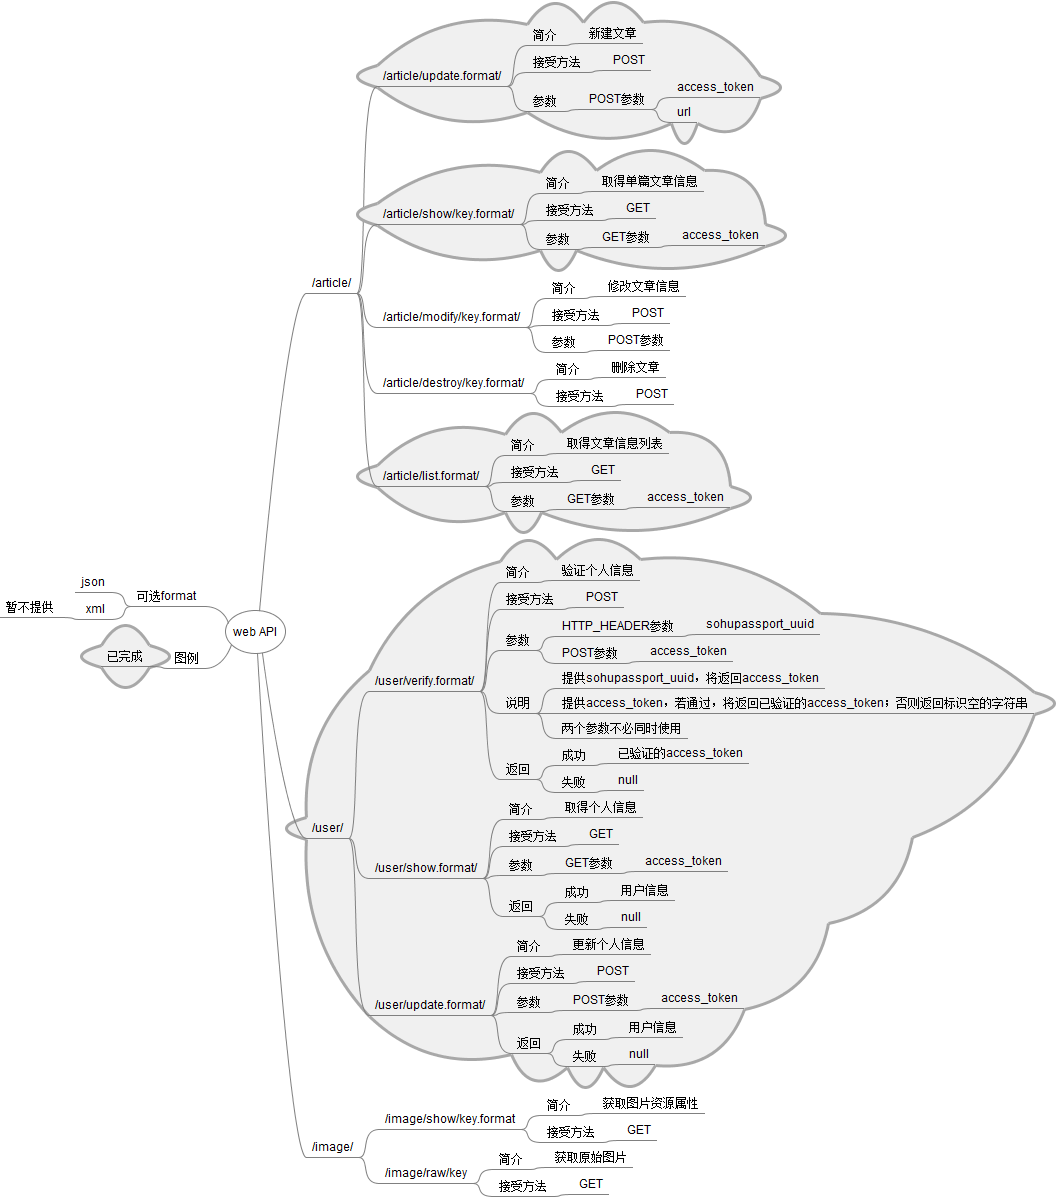
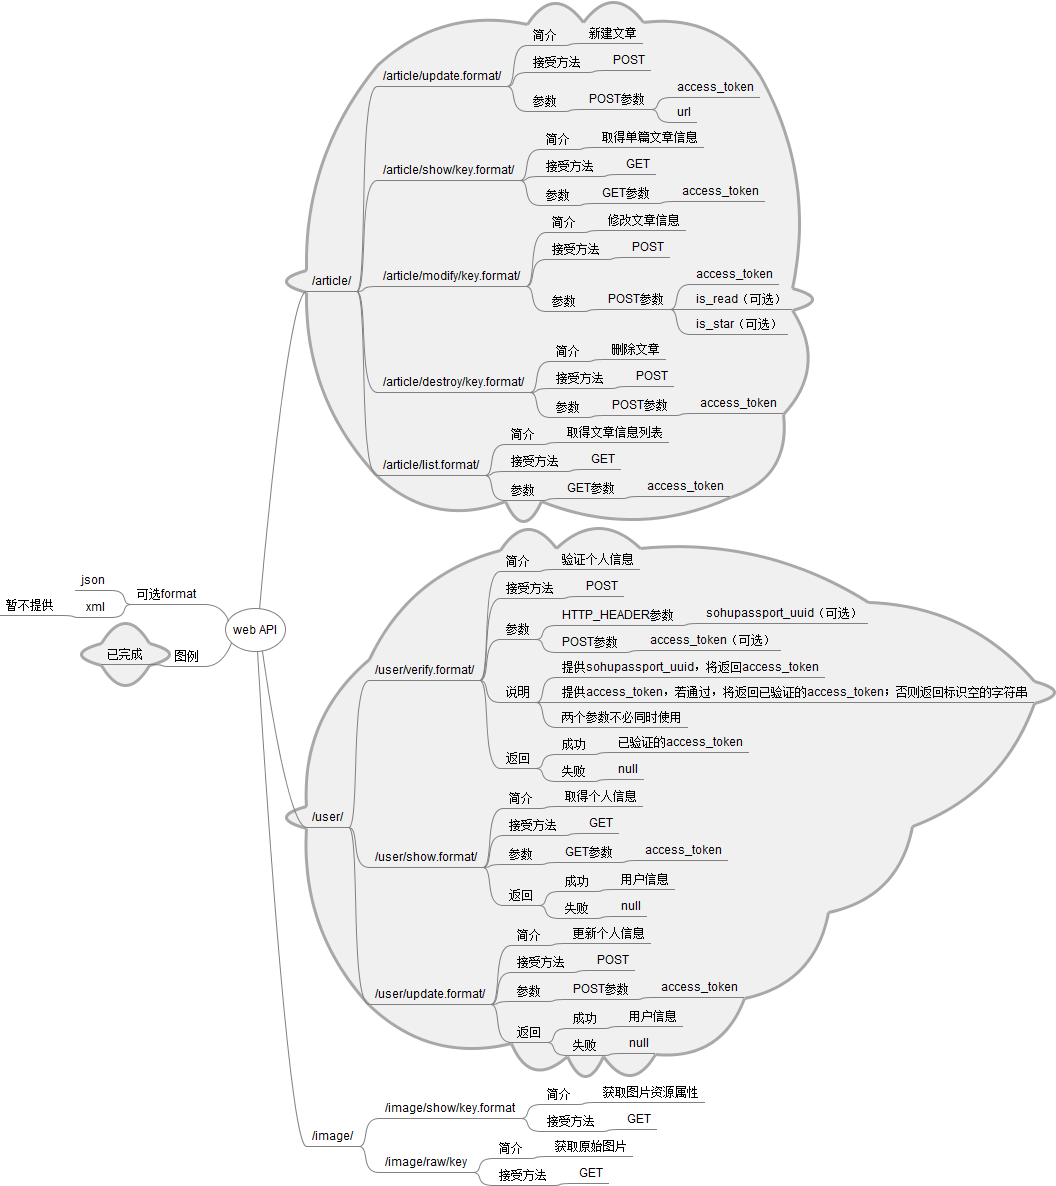
implement article/modify and article/destroy view, modify web_API.png

diff --git a/src/SohuPocketLib/article/helper.py b/src/SohuPocketLib/article/helper.py
@@ -9,6 +9,7 @@ from SohuPocketLib.user.helper import get_GET_dict, get_POST_dict
 from django.core.cache import cache
 from lxml import etree
 import hashlib
+import time
 
 
 def choose_a_db(user_id):
@@ -37,12 +38,13 @@ def create_myarticle_instance(user_id, key, title, url):
 def get_myarticle_instance(user_id, key):
     myarticle_instance = cache.get(key, None)
     if myarticle_instance is None:
+        chosen_db = choose_a_db(user_id)
         try:
-            chosen_db = choose_a_db(user_id)
             myarticle_instance = MyArticleInstance.objects.using(chosen_db).get(key=key)
-            cache.set(key, myarticle_instance)
         except MyArticleInstance.DoesNotExist:
             pass
+        else:
+            myarticle_instance.update_cache()
         
     return myarticle_instance  
 
@@ -60,14 +62,35 @@ def get_myarticle_instance_with_image_list(user_id, key):
                                             .filter(myarticle_instance_id=myarticle_instance.id)
         image_list = [image.key for image in myimage_instance_list]
         myarticle_instance.image_list = image_list
+        myarticle_instance.update_cache()
     
     return myarticle_instance
-                                            
 
-def update_myarticle_instance_cache(user_id, key, myarticle_instance):
-    cache.set(key, myarticle_instance)
-    
-    return None
+                                            
+def modify_or_destroy_myarticle_instance(user_id, key, modify_info):
+    is_successful = True
+    chosen_db = choose_a_db(user_id)
+    try:
+        myarticle_instance = MyArticleInstance.objects.using(chosen_db).get(key=key)
+    except MyArticleInstance.DoesNotExist:
+        is_successful = False
+    else:
+        if modify_info['is_delete'] == 'True':
+            myarticle_instance.is_deleted = True
+            myarticle_instance.delete_time = time.time()
+        if modify_info['is_read'] == 'True':
+            myarticle_instance.is_read = True
+            myarticle_instance.read_time = time.time()
+        if modify_info['is_read'] == 'False':
+            myarticle_instance.is_read = False
+            myarticle_instance.read_time = None
+        if modify_info['is_star'] == 'True':
+            myarticle_instance.is_star = True
+        if modify_info['is_star'] == 'False':
+            myarticle_instance.is_star = False
+        myarticle_instance.save()
+        
+    return is_successful        
 
 
 def generate_article_instance_key(url, user_id):
@@ -126,6 +149,13 @@ def get_myarticle_list_to_xml_etree(user_id):
     return articles
 
 
+def generate_single_xml_etree(tag, text, **kwargs):
+    element = etree.Element(tag, **kwargs) 
+    element.text = text
+    
+    return element
+
+
 def get_access_token(request, method):
     if method == 'GET':
         access_token_input = get_GET_dict(request).get('access_token', '')
@@ -152,8 +182,15 @@ def input_for_update_func(request):
     return access_token, url
 
 
-def generate_single_xml_etree(tag, text, **kwargs):
-    element = etree.Element(tag, **kwargs) 
-    element.text = text
+def input_for_destroy_func(request):
     
-    return element
+    return get_access_token(request, 'POST')    
+
+def input_for_modify_func(request):
+    access_token = get_access_token(request, 'POST')
+    modify_info = dict()
+    args = ('is_delete', 'is_read', 'is_star')
+    for arg in args:
+        modify_info[arg] = get_POST_dict(request).get(arg, '')
+        
+    return access_token, modify_info

diff --git a/src/SohuPocketLib/article/views.py b/src/SohuPocketLib/article/views.py
@@ -2,7 +2,8 @@
 
 from SohuPocketLib.article.helper import get_myarticle_list_to_xml_etree, \
     input_for_list_func, get_myarticle_instance_to_xml_etree, input_for_show_func, \
-    input_for_update_func, generate_single_xml_etree
+    input_for_update_func, generate_single_xml_etree, input_for_destroy_func, \
+    input_for_modify_func, modify_or_destroy_myarticle_instance
 from SohuPocketLib.page.tasks import PageFetchHandler
 from SohuPocketLib.user.helper import KanUser
 from django.http import HttpResponse
@@ -52,4 +53,31 @@ def update(request, format):
                 response_etree = generate_single_xml_etree('status', 'success')
                 response = etree.tostring(response_etree)
             
+    return HttpResponse(response)
+
+
+def destroy(request, key, format):
+    access_token_input = input_for_destroy_func(request)
+    modify_info = dict()
+    modify_info['is_delete'] ='True'
+    return modify_or_destroy_base(access_token_input, modify_info, key, format)
+        
+        
+def modify(request, key, format):
+    access_token_input, modify_info = input_for_modify_func(request)
+    return modify_or_destroy_base(access_token_input, modify_info, key, format)
+
+
+def modify_or_destroy_base(access_token_input, modify_info, key, format):
+    kan_user = KanUser('', access_token_input)
+    kan_user.verify_and_login()
+    response = None
+    is_successful = False
+    if kan_user.is_logged_in():
+        user_id = kan_user.get_user_id()
+        is_successful = modify_or_destroy_myarticle_instance(user_id, key, modify_info)
+    if format == 'xml':
+        response_etree = generate_single_xml_etree('status', 'success' if is_successful else 'fail')
+        response = etree.tostring(response_etree)
+        
     return HttpResponse(response)

diff --git a/src/SohuPocketLib/urls.py b/src/SohuPocketLib/urls.py
@@ -12,15 +12,19 @@ urlpatterns = patterns('',
     (r'^$', 'SohuPocketLib.views.home'),
     (r'^passport/$', 'SohuPocketLib.views.passport'),
     
-    (r'^user/verify.json/$', 'SohuPocketLib.user.views.verify'),
-    (r'^user/verify.json/test/$', 'SohuPocketLib.user.views.verify_test'),
+    (r'^user/verify\.json/$', 'SohuPocketLib.user.views.verify'),
+    (r'^user/verify\.json/test/$', 'SohuPocketLib.user.views.verify_test'),
     
-    (r'^user/show.json/$', 'SohuPocketLib.user.views.show'),
-    (r'^user/show.json/test/$', 'SohuPocketLib.user.views.show_test'),
+    (r'^user/show\.json/$', 'SohuPocketLib.user.views.show'),
+    (r'^user/show\.json/test/$', 'SohuPocketLib.user.views.show_test'),
 
-    (r'^user/update.json/$', 'SohuPocketLib.user.views.update'),
-    (r'^user/update.json/test/$', 'SohuPocketLib.user.views.update_test'),
+    (r'^user/update\.json/$', 'SohuPocketLib.user.views.update'),
+    (r'^user/update\.json/test/$', 'SohuPocketLib.user.views.update_test'),
     
-    (r'^article/get/(?P<url>.*)$', 'SohuPocketLib.article.views.get_string_from_url')
+    (r'^article/update\.(?P<format>\w+)/$', 'SohuPocketLib.article.views.update'),    
+    (r'^article/show/(?P<key>\w+)\.(?P<format>\w+)/$', 'SohuPocketLib.article.views.show'),
+    (r'^article/modify/(?P<key>\w+)\.(?P<format>\w+)/$', 'SohuPocketLib.article.views.modify'),
+    (r'^article/destroy/(?P<key>\w+)\.(?P<format>\w+)/$', 'SohuPocketLib.article.views.destroy'),
+    (r'^article/list\.(?P<format>\w+)/$', 'SohuPocketLib.article.views.list'),
     
 )

diff --git a/src/SohuPocketLib/article/models.py b/src/SohuPocketLib/article/models.py
@@ -16,7 +16,7 @@ class MyArticleInstance(MultiDB):
     is_star = models.BooleanField(default=False)                #是否标记星标
     is_delete = models.BooleanField(default=False)              #是否删除
     create_time = models.DateTimeField(auto_now_add=True)       #文章创建时间
-    readed_time = models.DateTimeField(null=True, blank=True)   #标记为已读时间
+    read_time = models.DateTimeField(null=True, blank=True)   #标记为已读时间
     delete_time = models.DateTimeField(null=True, blank=True)   #标记为删除时间
     is_ready = models.BooleanField(default=False)
 

diff --git a/src/SohuPocketLib/settings.py b/src/SohuPocketLib/settings.py
@@ -164,5 +164,6 @@ BROKER_PORT = 5672
 BROKER_USER = "guest"
 BROKER_PASSWORD = "guest"
 BROKER_VHOST = "/"
+
 AWS_SECRET_ACCESS_KEY = 'rfUdPSAC2hXhHMGG0wXiHcxeuEpqybEGxn8xPYMy'
 AWS_ACCESS_KEY_ID = 'AKIAIXEPRIJSQA4A2KOA'
